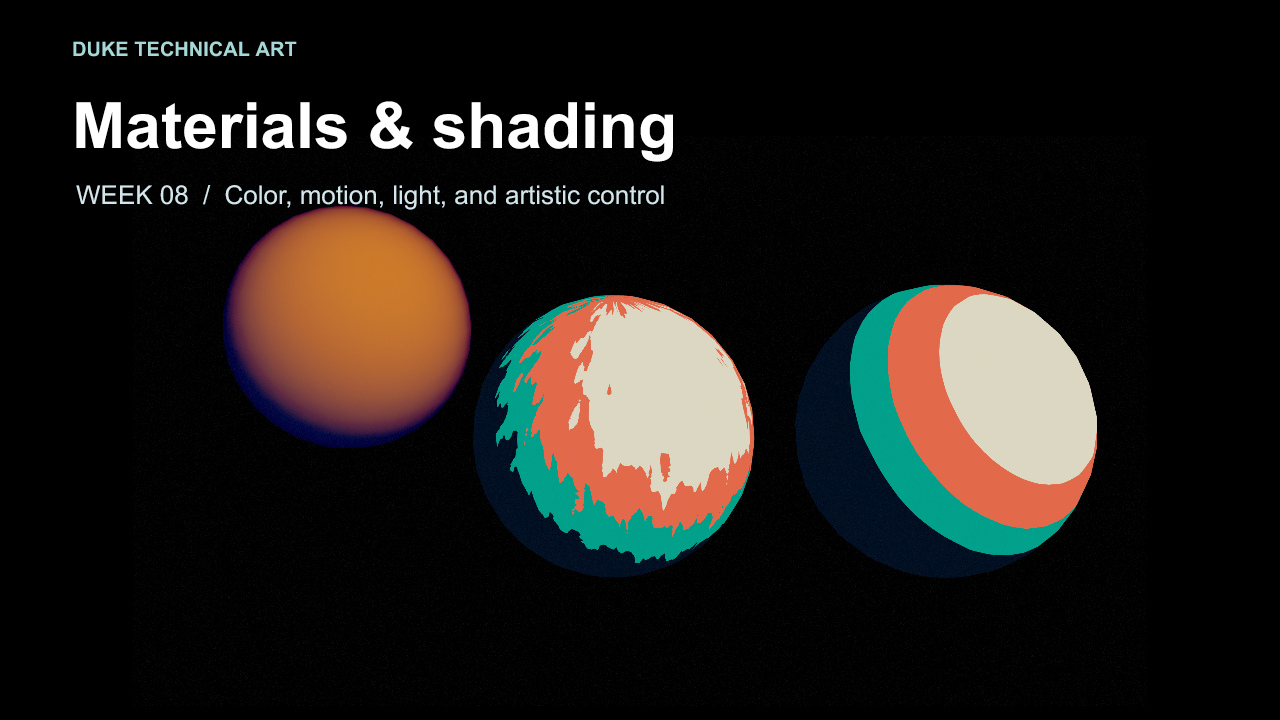
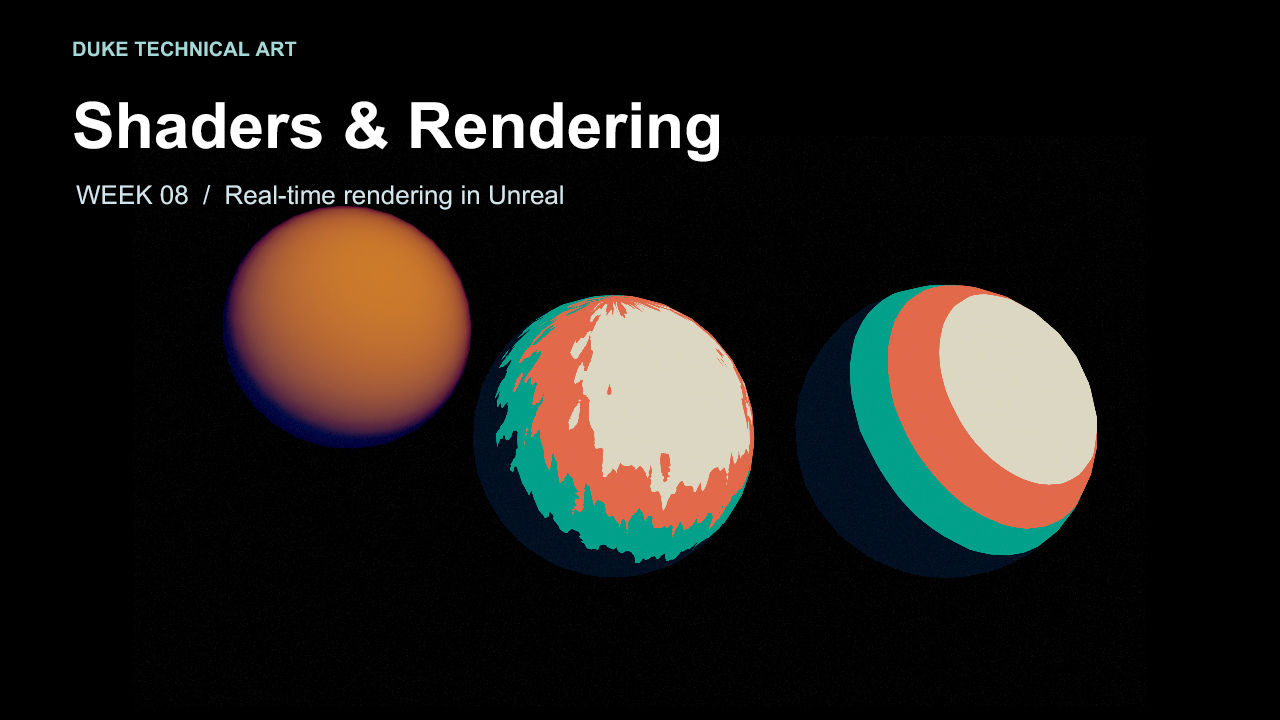
Connect Week 8 shader studies to the rendering pipeline

Changed region(s): [[0.0625, 0.1222, 0.5625, 0.3056]]

diff --git a/docs/slides/index.html b/docs/slides/index.html
@@ -1,4 +1,4 @@
-<!doctype html><html lang="en"><meta charset="utf-8"><meta name="viewport" content="width=device-width,initial-scale=1"><title>Week 8 · Materials and shading</title><style>*{box-sizing:border-box}body{font:18px/1.6 Arial;margin:0;background:#edf3f4;color:#123e4d}main,header{max-width:1240px;margin:auto;padding:24px}h1{font-size:42px;line-height:1.15}h2{margin-top:0}a{color:#087c78}nav{display:flex;gap:22px;flex-wrap:wrap}article,section.card{background:white;padding:24px;margin:24px 0;border-top:3px solid #09988e}img{max-width:100%;height:auto}pre,code{font-family:Consolas,monospace;overflow-wrap:anywhere}pre{white-space:pre-wrap;background:#edf3f4;padding:15px}table{border-collapse:collapse;width:100%}th,td{padding:12px;border:1px solid #b9ced0;text-align:left}th{background:#0a4054;color:white}input,select,button,textarea{font:inherit;padding:10px;color:inherit}textarea{width:100%;min-height:110px}small{color:#526c75}.grid{display:grid;grid-template-columns:repeat(2,minmax(0,1fr));gap:20px}.tag{color:#087c78;font-size:14px;text-transform:uppercase}details{margin:15px 0}summary{cursor:pointer}button{cursor:pointer;background:white;border:1px solid #78a4aa}a:focus-visible,button:focus-visible,input:focus-visible{outline:3px solid #e3a635} @media(max-width:800px){.grid{grid-template-columns:1fr}h1{font-size:32px}}@media print{nav,button{display:none}article{break-inside:avoid}}body{background:#102e3c;color:white}header{max-width:none;padding:10px 24px;display:flex;gap:15px;align-items:center;flex-wrap:wrap}header a{color:#a2e1dc}main{padding:8px 20px;max-width:1400px}#stage{position:relative;aspect-ratio:16/9;background:white}#slide{display:block;width:100%;height:100%;object-fit:contain}#motion{position:absolute;object-fit:contain}#demo{width:100%;height:100%;border:0;position:absolute;inset:0;background:#edf3f4}#notes{background:#fff;color:#123e4d;padding:22px}#notes p{white-space:pre-wrap}#keySources{background:#edf3f4;color:#123e4d;padding:16px 22px;margin:14px 0}#keySources:empty{display:none}#keySources a{color:#087b77;font-weight:bold}#keySources p{margin:4px 0 14px;font-size:16px}#caption{margin:8px 0}select{max-width:420px}a[hidden],button[hidden],img[hidden],iframe[hidden]{display:none}header button,header select{color:#123e4d;background:#fff}/* classroom-fit: show the entire slide without vertical cropping */ #stage{width:min(100%,calc((100dvh - 165px)*16/9));margin:0 auto;min-width:0} @media(max-width:700px){#stage{width:100%}} </style><header><a href="../../index.html">Classroom</a><a href="../class-guide.html">Class guide</a><a href="../dig-deeper.html">References</a><button id="prev">← Previous</button><button id="next">Next →</button><select id="route" aria-label="Presentation route"><option value="live">Live route</option><option value="all">All slides + optional</option></select><select id="chapter" aria-label="Agenda chapter"></select><select id="pick" aria-label="Slide"></select><a id="guest" href="../guest/Rasterization.pdf" target="_blank" rel="noopener" hidden>Ned’s original slides (PDF)</a><button id="live" hidden>Explore live GLSL</button><button id="motionButton" hidden>Pause animation</button><a href="https://github.com/anthonymonteagudo/Week08-Shaders/releases/download/week08-2026-10-22/Week08_Materials_LightingColor_v4_Final.pptx">Download PowerPoint</a></header><main><div id="stage"><img id="slide" alt=""><img id="motion" alt="Animated material result" hidden><iframe id="demo" title="Interactive GLSL shader example" hidden></iframe></div><p id="caption"></p><aside id="keySources" aria-label="Key sources for this slide"></aside><details id="notes"><summary>Explanation and references</summary><p id="narration"></p><div id="sources"></div></details></main><script type="module">
+<!doctype html><html lang="en"><meta charset="utf-8"><meta name="viewport" content="width=device-width,initial-scale=1"><title>Week 8 · Shaders &amp; Rendering</title><style>*{box-sizing:border-box}body{font:18px/1.6 Arial;margin:0;background:#edf3f4;color:#123e4d}main,header{max-width:1240px;margin:auto;padding:24px}h1{font-size:42px;line-height:1.15}h2{margin-top:0}a{color:#087c78}nav{display:flex;gap:22px;flex-wrap:wrap}article,section.card{background:white;padding:24px;margin:24px 0;border-top:3px solid #09988e}img{max-width:100%;height:auto}pre,code{font-family:Consolas,monospace;overflow-wrap:anywhere}pre{white-space:pre-wrap;background:#edf3f4;padding:15px}table{border-collapse:collapse;width:100%}th,td{padding:12px;border:1px solid #b9ced0;text-align:left}th{background:#0a4054;color:white}input,select,button,textarea{font:inherit;padding:10px;color:inherit}textarea{width:100%;min-height:110px}small{color:#526c75}.grid{display:grid;grid-template-columns:repeat(2,minmax(0,1fr));gap:20px}.tag{color:#087c78;font-size:14px;text-transform:uppercase}details{margin:15px 0}summary{cursor:pointer}button{cursor:pointer;background:white;border:1px solid #78a4aa}a:focus-visible,button:focus-visible,input:focus-visible{outline:3px solid #e3a635} @media(max-width:800px){.grid{grid-template-columns:1fr}h1{font-size:32px}}@media print{nav,button{display:none}article{break-inside:avoid}}body{background:#102e3c;color:white}header{max-width:none;padding:10px 24px;display:flex;gap:15px;align-items:center;flex-wrap:wrap}header a{color:#a2e1dc}main{padding:8px 20px;max-width:1400px}#stage{position:relative;aspect-ratio:16/9;background:white}#slide{display:block;width:100%;height:100%;object-fit:contain}#motion{position:absolute;object-fit:contain}#demo{width:100%;height:100%;border:0;position:absolute;inset:0;background:#edf3f4}#notes{background:#fff;color:#123e4d;padding:22px}#notes p{white-space:pre-wrap}#keySources{background:#edf3f4;color:#123e4d;padding:16px 22px;margin:14px 0}#keySources:empty{display:none}#keySources a{color:#087b77;font-weight:bold}#keySources p{margin:4px 0 14px;font-size:16px}#caption{margin:8px 0}select{max-width:420px}a[hidden],button[hidden],img[hidden],iframe[hidden]{display:none}header button,header select{color:#123e4d;background:#fff}/* classroom-fit: show the entire slide without vertical cropping */ #stage{width:min(100%,calc((100dvh - 165px)*16/9));margin:0 auto;min-width:0} @media(max-width:700px){#stage{width:100%}} </style><header><a href="../../index.html">Classroom</a><a href="../class-guide.html">Class guide</a><a href="../dig-deeper.html">References</a><button id="prev">← Previous</button><button id="next">Next →</button><select id="route" aria-label="Presentation route"><option value="live">Live route</option><option value="all">All slides + optional</option></select><select id="chapter" aria-label="Agenda chapter"></select><select id="pick" aria-label="Slide"></select><a id="guest" href="../guest/Rasterization.pdf" target="_blank" rel="noopener" hidden>Ned’s original slides (PDF)</a><button id="live" hidden>Explore live GLSL</button><button id="motionButton" hidden>Pause animation</button><a href="https://github.com/anthonymonteagudo/Week08-Shaders/releases/download/week08-2026-10-22/Week08_Shaders_Rendering_v5_Final.pptx">Download PowerPoint</a></header><main><div id="stage"><img id="slide" alt=""><img id="motion" alt="Animated material result" hidden><iframe id="demo" title="Interactive GLSL shader example" hidden></iframe></div><p id="caption"></p><aside id="keySources" aria-label="Key sources for this slide"></aside><details id="notes"><summary>Explanation and references</summary><p id="narration"></p><div id="sources"></div></details></main><script type="module">
 const data=await(await fetch('slides.json')).json(),$=id=>document.getElementById(id);let index=0,live=false,motion=true;
 function routeData(){return data.filter(d=>$('route').value==='all'||!d.appendix)}
 function options(){const shown=routeData();$('chapter').replaceChildren();for(const c of [...new Set(shown.map(d=>d.section))])$('chapter').add(new Option(c,shown.find(d=>d.section===c).number));$('pick').replaceChildren();shown.forEach(d=>$('pick').add(new Option(d.number+' · '+d.title+(d.appendix?' [optional]':''),d.number-1)));}

diff --git a/docs/class-guide.html b/docs/class-guide.html
@@ -2,7 +2,7 @@
 <html lang="en"><head><meta charset="utf-8"><meta name="viewport" content="width=device-width,initial-scale=1"><link rel="icon" href="data:,"><title>Week 8 · Quick guide</title><link rel="stylesheet" href="../web/guide.css"></head>
 <body><header><nav aria-label="Course"><a href="../index.html">Shader classroom</a><a href="slides/index.html">Slides</a><a href="class-guide.html">Guide</a><a href="activities.html">Activities</a><a href="dig-deeper.html">References</a></nav></header>
 <main><h1>Week 8 · Quick guide</h1>
-<p>Trace each visible change through its inputs, calculation, and output. <a href="activities.html">Do the activities</a>; use the slides for the full explanation.</p>
+<p>Study real-time rendering through the parts technical artists control. Ned explains the rendering foundation; our Unreal examples connect texture sampling, vertex motion and shading to that pipeline. Trace each visible change through its inputs, calculation and output. <a href="activities.html">Do the activities</a>; use the slides for the full explanation.</p>
 <h2 id="unreal">Unreal gallery</h2>
 <p>Open <code>Unreal/Week08Student.uproject</code> in UE 5.7. The startup map is <code>W08_Student_Gallery</code>. Wait for shaders to compile; explore in the editor. Right mouse + WASD moves; F frames a selection. Pilot a named CameraActor for a repeatable view.</p>
 <p>Select a display, open its MI in Details → Materials, duplicate it into your own folder, and assign your copy to the display. Enable a parameter's override checkbox before editing. Open the parent to trace the calculation.</p>
@@ -11,7 +11,7 @@
 <p>A renderer forms an image from a scene and camera. The basic rasterization route is vertices → triangle coverage → fragment shading → image; engines use multiple passes. A material defines surface behavior; an instance overrides exposed parent parameters.</p>
 <p>UVs address textures. Local coordinates belong to an object; world coordinates share a frame. Normalize nonzero directions and put both vectors in the same space before a dot product. For unit vectors, dot is 1 when aligned, 0 perpendicular, −1 opposite. Reversing cross-product order reverses its nonzero result.</p>
 <p><a href="slides/index.html#4">Rendering slides</a> · <a href="guest/Rasterization.pdf">Ned’s PDF for annotation</a></p>
-<h2 id="lessons">Shader examples</h2>
+<p><b>Locate the work:</b> the CPU prepares scene and draw work; the GPU processes geometry and shaded samples. Meshes, textures and render targets use memory. Moving UVs changes texture lookup; World Position Offset changes vertex positions; material blend mode affects visibility/compositing. A changed value can alter appearance without increasing the amount of work. <a href="slides/index.html#8">Optional work/resource map</a>.</p><h2 id="lessons">Shader examples</h2>
 <p>Open a lesson to see its GLSL, Unreal HLSL, native-node recipe, exact Unreal instance paths, and lecture links. Only GLSL runs in the browser.</p>
 <table><thead><tr><th>Lesson</th><th>Change and check</th></tr></thead><tbody>
 <tr><td><a href="../index.html?lesson=01_color">01 · Tint</a></td><td>White Tint preserves the texture. Reduce one channel and explain component-wise multiplication.</td></tr>
